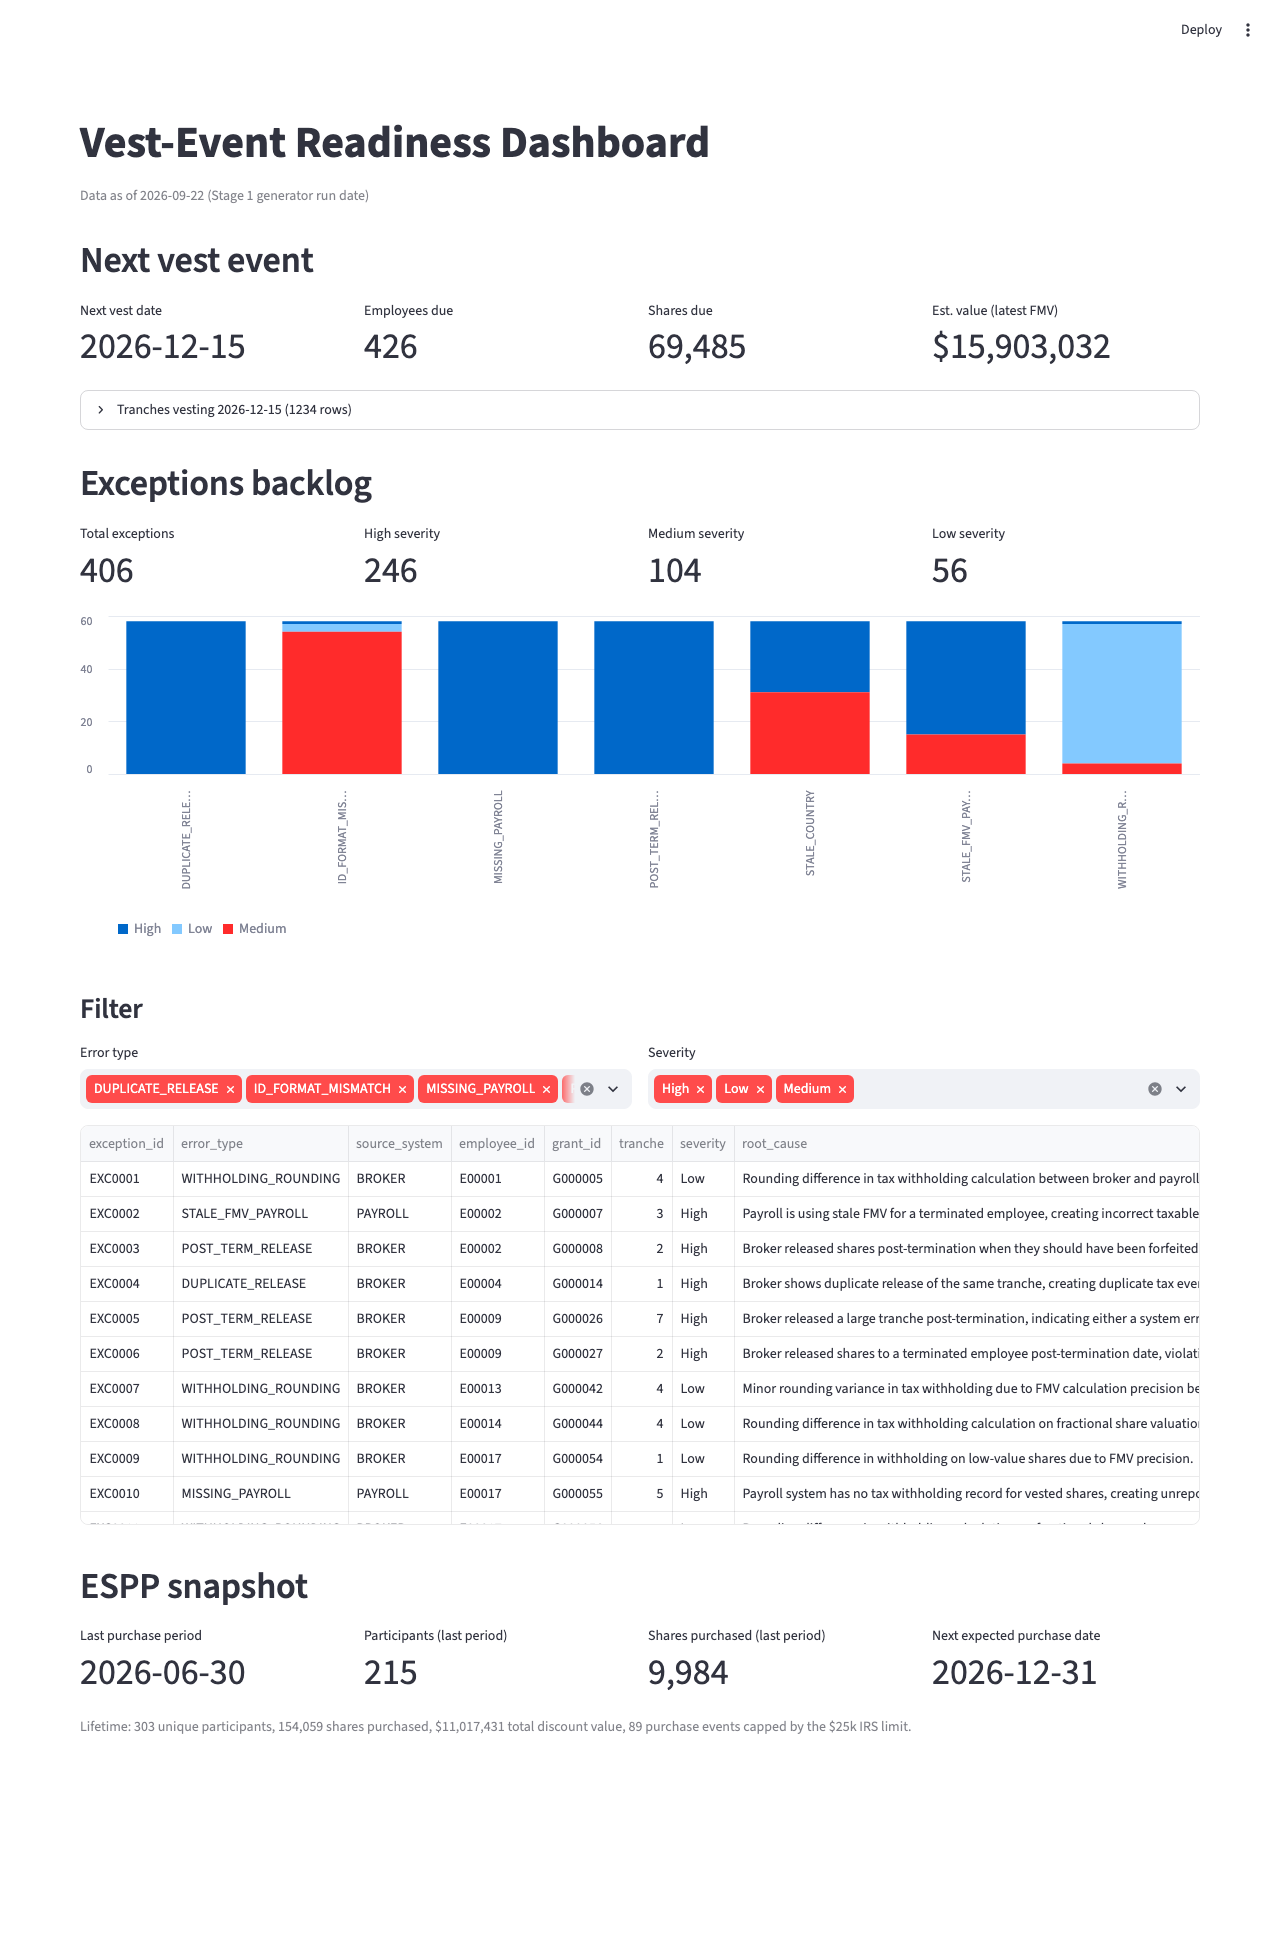
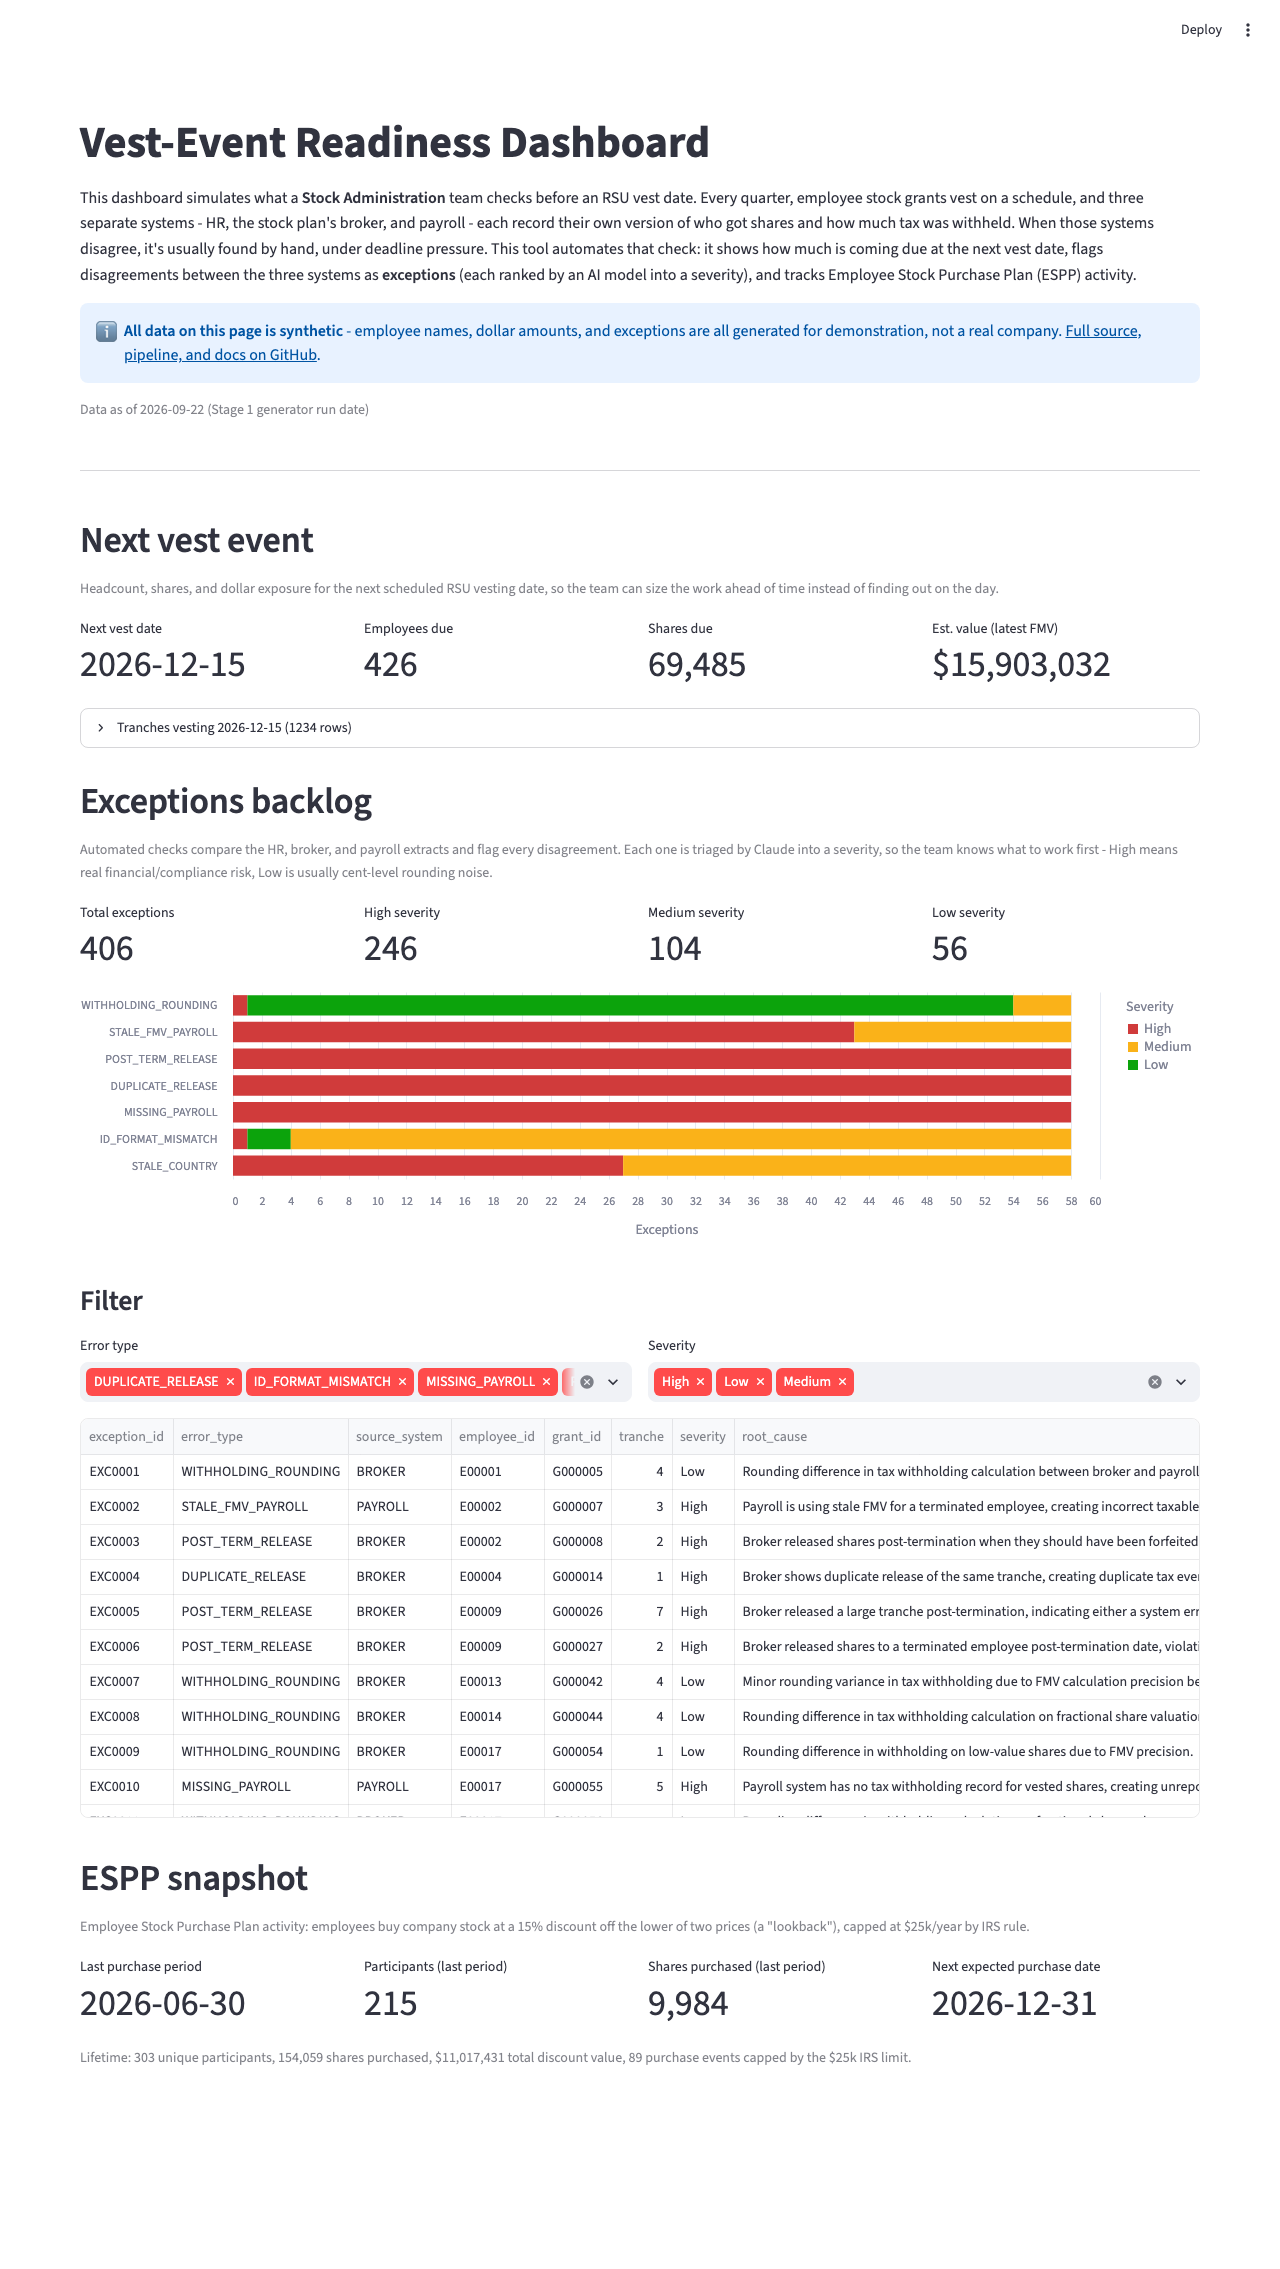
Add dashboard context/description and fix sideways chart labels

diff --git a/dashboard.py b/dashboard.py
@@ -19,8 +19,16 @@ from __future__ import annotations
 import json
 from pathlib import Path
 
+import altair as alt
 import pandas as pd
 import streamlit as st
+
+REPO_URL = "https://github.com/SayedOmarHashimi/equity-ops-automation-toolkit"
+
+# Status palette: severity is a state (bad -> good), not a category, so it's
+# colored with fixed status hues rather than arbitrary categorical colors.
+SEVERITY_COLORS = {"High": "#d03b3b", "Medium": "#fab219", "Low": "#0ca30c"}
+SEVERITY_ORDER = ["High", "Medium", "Low"]
 
 _ROOT = Path(__file__).resolve().parent
 # data/ (Stage 1 output) is gitignored and local-only. When it's not present -
@@ -58,14 +66,35 @@ def load_data():
 vest, hris, prices, exceptions, espp, meta = load_data()
 
 st.title("Vest-Event Readiness Dashboard")
+
+st.markdown(
+    "This dashboard simulates what a **Stock Administration** team checks before an RSU "
+    "vest date. Every quarter, employee stock grants vest on a schedule, and three separate "
+    "systems - HR, the stock plan's broker, and payroll - each record their own version of "
+    "who got shares and how much tax was withheld. When those systems disagree, it's usually "
+    "found by hand, under deadline pressure. This tool automates that check: it shows how much "
+    "is coming due at the next vest date, flags disagreements between the three systems as "
+    "**exceptions** (each ranked by an AI model into a severity), and tracks Employee Stock "
+    "Purchase Plan (ESPP) activity."
+)
+st.info(
+    "**All data on this page is synthetic** - employee names, dollar amounts, and "
+    "exceptions are all generated for demonstration, not a real company. "
+    f"[Full source, pipeline, and docs on GitHub]({REPO_URL}).",
+    icon="ℹ",
+)
 if meta.get("as_of_date"):
     st.caption(f"Data as of {meta['as_of_date']} (Stage 1 generator run date)")
+
+st.divider()
 
 # ---------------------------------------------------------------------------
 # Next vest event
 # ---------------------------------------------------------------------------
 
 st.header("Next vest event")
+st.caption("Headcount, shares, and dollar exposure for the next scheduled RSU vesting date, "
+          "so the team can size the work ahead of time instead of finding out on the day.")
 
 upcoming = vest[vest["status"] == "UNVESTED"]
 if upcoming.empty:
@@ -99,6 +128,10 @@ else:
 # ---------------------------------------------------------------------------
 
 st.header("Exceptions backlog")
+st.caption("Automated checks compare the HR, broker, and payroll extracts and flag every "
+          "disagreement. Each one is triaged by Claude into a severity, so the team knows "
+          "what to work first - High means real financial/compliance risk, Low is usually "
+          "cent-level rounding noise.")
 
 if exceptions.empty:
     st.info("No exceptions.csv found. Run reconcile.py (and optionally triage_exceptions.py) first.")
@@ -113,12 +146,41 @@ else:
         c3.metric("Medium severity", f"{int(counts.get('Medium', 0)):,}")
         c4.metric("Low severity", f"{int(counts.get('Low', 0)):,}")
 
-        chart_data = exceptions.groupby(["error_type", "severity"]).size().unstack(fill_value=0)
-        st.bar_chart(chart_data)
+        chart_data = exceptions.groupby(["error_type", "severity"]).size().reset_index(name="count")
+        order = (exceptions["error_type"].value_counts().index.tolist())
+        chart = (
+            alt.Chart(chart_data)
+            .mark_bar()
+            .encode(
+                y=alt.Y("error_type:N", sort=order, title=None,
+                       axis=alt.Axis(labelLimit=200, labelFontSize=12)),
+                x=alt.X("count:Q", title="Exceptions"),
+                color=alt.Color("severity:N", title="Severity",
+                                scale=alt.Scale(domain=SEVERITY_ORDER,
+                                                range=[SEVERITY_COLORS[s] for s in SEVERITY_ORDER])),
+                order=alt.Order("severity:N", sort="ascending"),
+                tooltip=["error_type:N", "severity:N", "count:Q"],
+            )
+            .properties(height=32 * chart_data["error_type"].nunique() + 40)
+        )
+        st.altair_chart(chart, use_container_width=True)
     else:
         st.metric("Total exceptions", f"{len(exceptions):,}")
         st.caption("Run triage_exceptions.py for severity classification and root-cause detail.")
-        st.bar_chart(exceptions["error_type"].value_counts())
+        counts = exceptions["error_type"].value_counts().reset_index()
+        counts.columns = ["error_type", "count"]
+        chart = (
+            alt.Chart(counts)
+            .mark_bar(color=SEVERITY_COLORS["Medium"])
+            .encode(
+                y=alt.Y("error_type:N", sort="-x", title=None,
+                       axis=alt.Axis(labelLimit=200, labelFontSize=12)),
+                x=alt.X("count:Q", title="Exceptions"),
+                tooltip=["error_type:N", "count:Q"],
+            )
+            .properties(height=32 * len(counts) + 40)
+        )
+        st.altair_chart(chart, use_container_width=True)
 
     st.subheader("Filter")
     col1, col2 = st.columns(2)
@@ -141,6 +203,8 @@ else:
 # ---------------------------------------------------------------------------
 
 st.header("ESPP snapshot")
+st.caption("Employee Stock Purchase Plan activity: employees buy company stock at a 15% "
+          "discount off the lower of two prices (a \"lookback\"), capped at $25k/year by IRS rule.")
 
 if espp.empty:
     st.info("No espp_purchases.csv found. Run espp_calculator.py first.")
